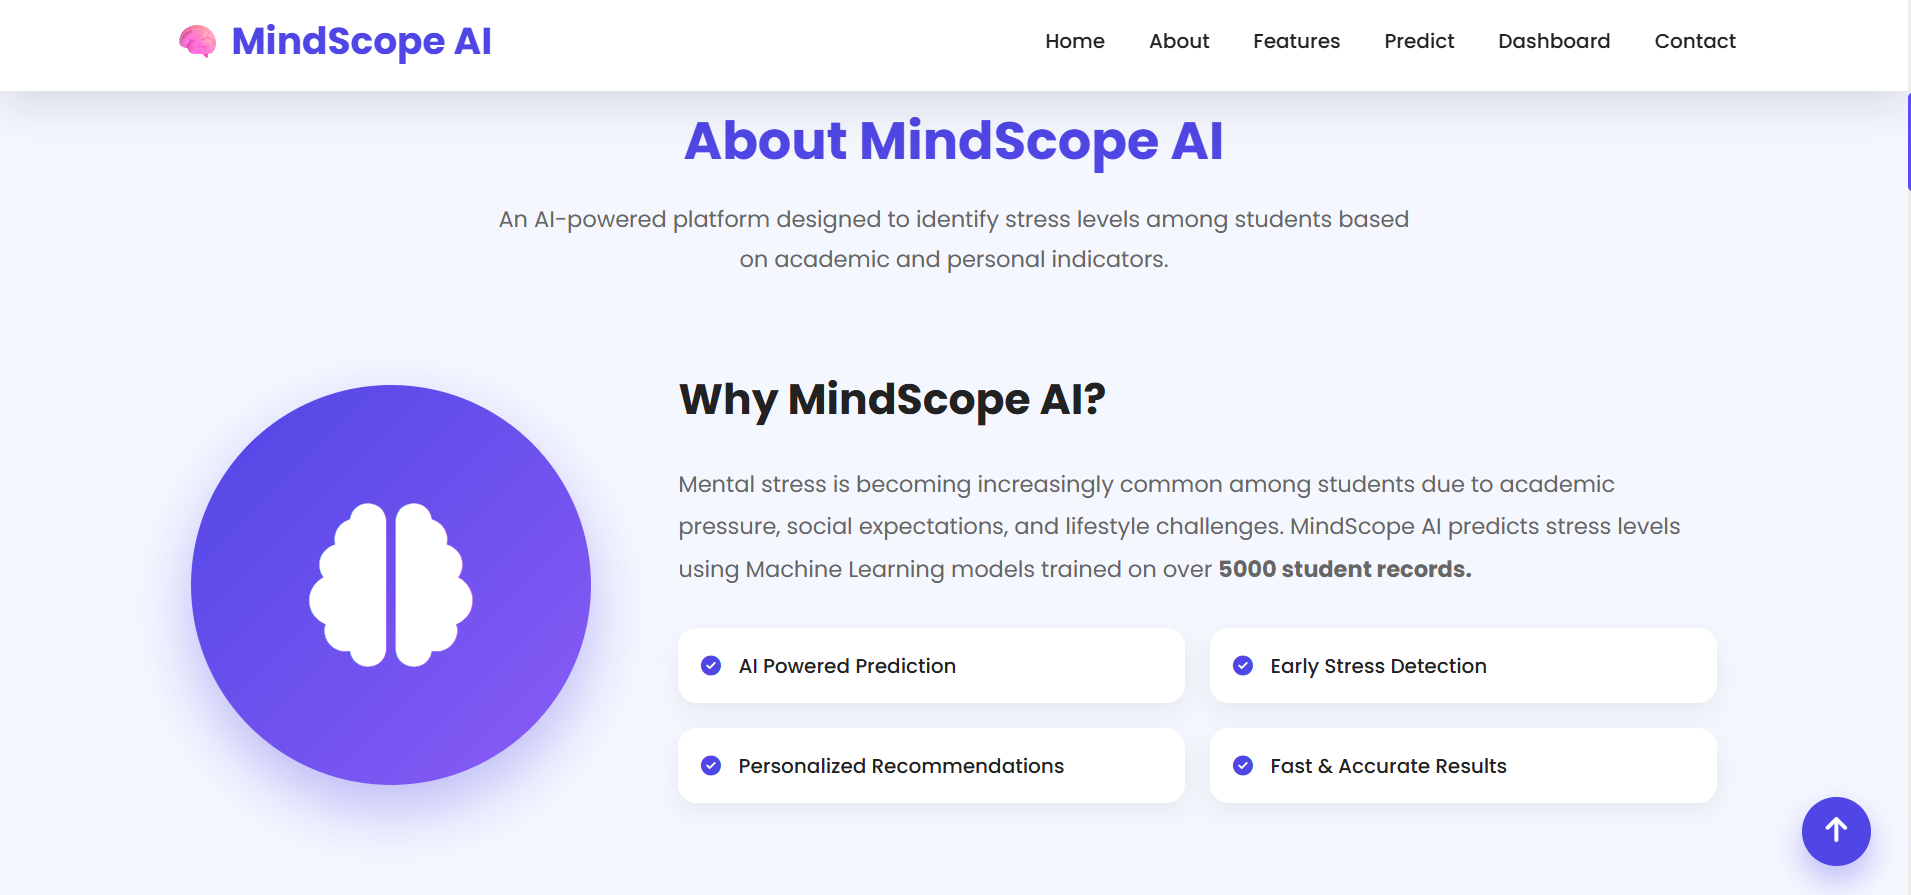
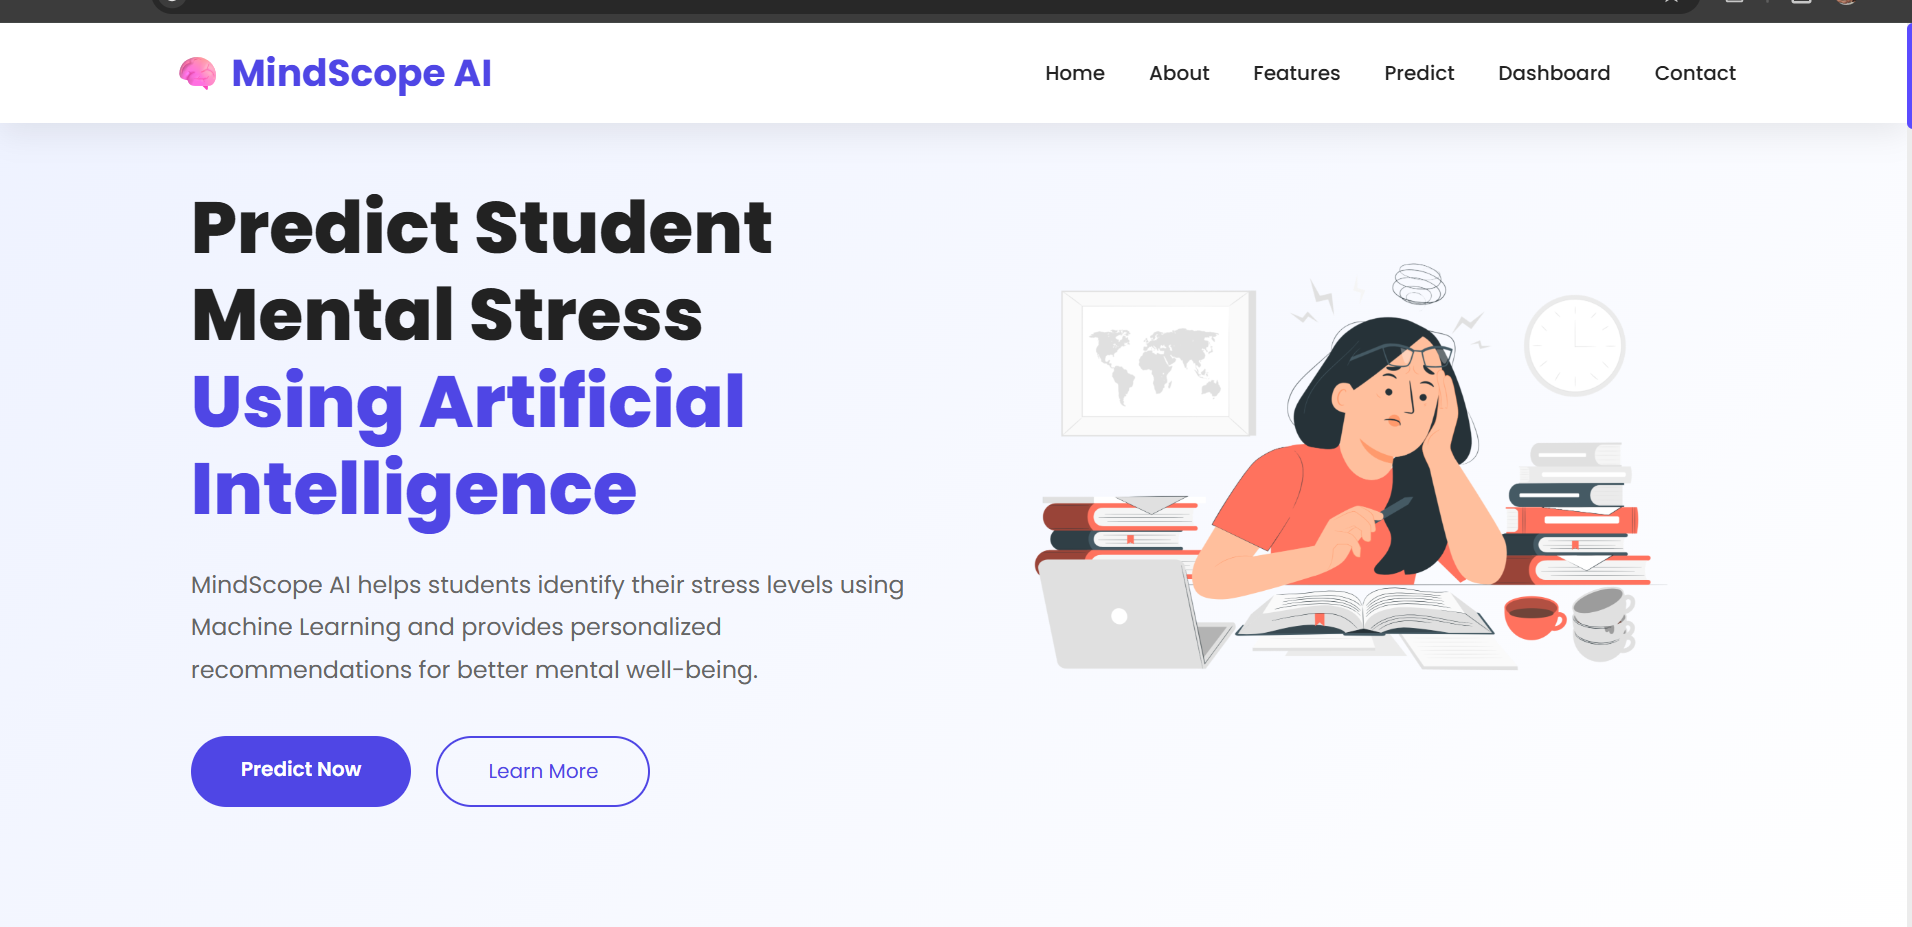
Image updated

diff --git a/index.html b/index.html
@@ -39,15 +39,6 @@
     <!-- Theme Color -->
     <meta name="theme-color" content="#080808" />
 
-    <!-- Google Search Console Verification -->
-    <!-- Add your Google verification code here when you get it -->
-    <!--
-    <meta
-      name="google-site-verification"
-      content="YOUR_GOOGLE_VERIFICATION_CODE"
-    />
-    -->
-
     <!-- Open Graph / Social Media -->
     <meta property="og:title" content="Vanshika Sinha | Full Stack Developer" />
 
